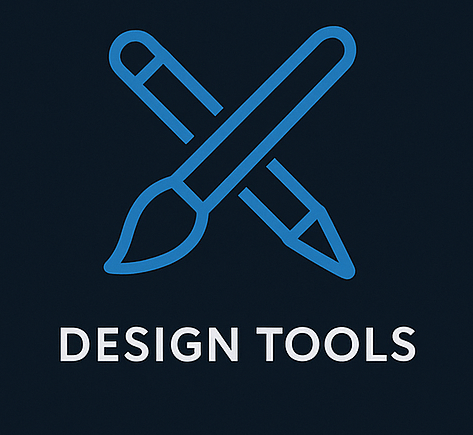
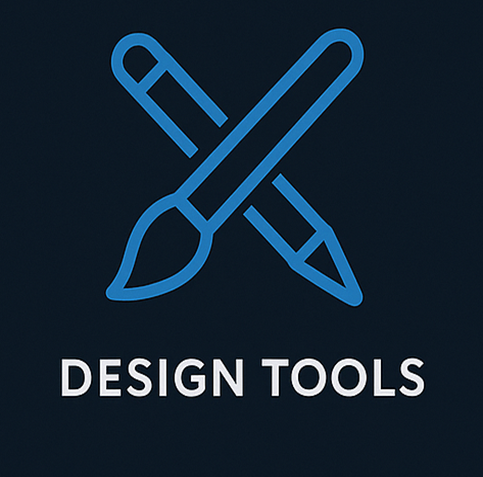
fixed feature section image sizing and spacing

diff --git a/style.css b/style.css
@@ -206,7 +206,7 @@ main {
 
 #features-figures {
   display: flex;
-  justify-content: center;
+  justify-content: space-evenly;
   justify-items: center;
   align-items: center;
   gap: 5%;
@@ -215,6 +215,7 @@ main {
 #features-figures figure {
   display: flex;
   flex-direction: column;
+  width: 25%;
   align-items: center;
 }
 
